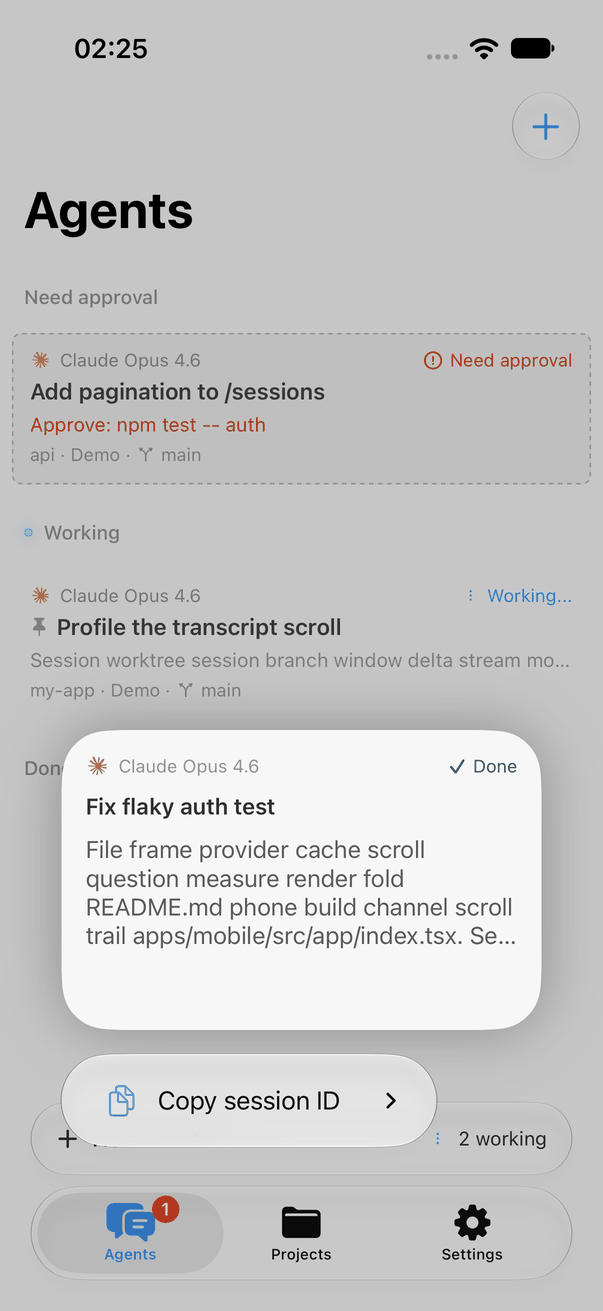
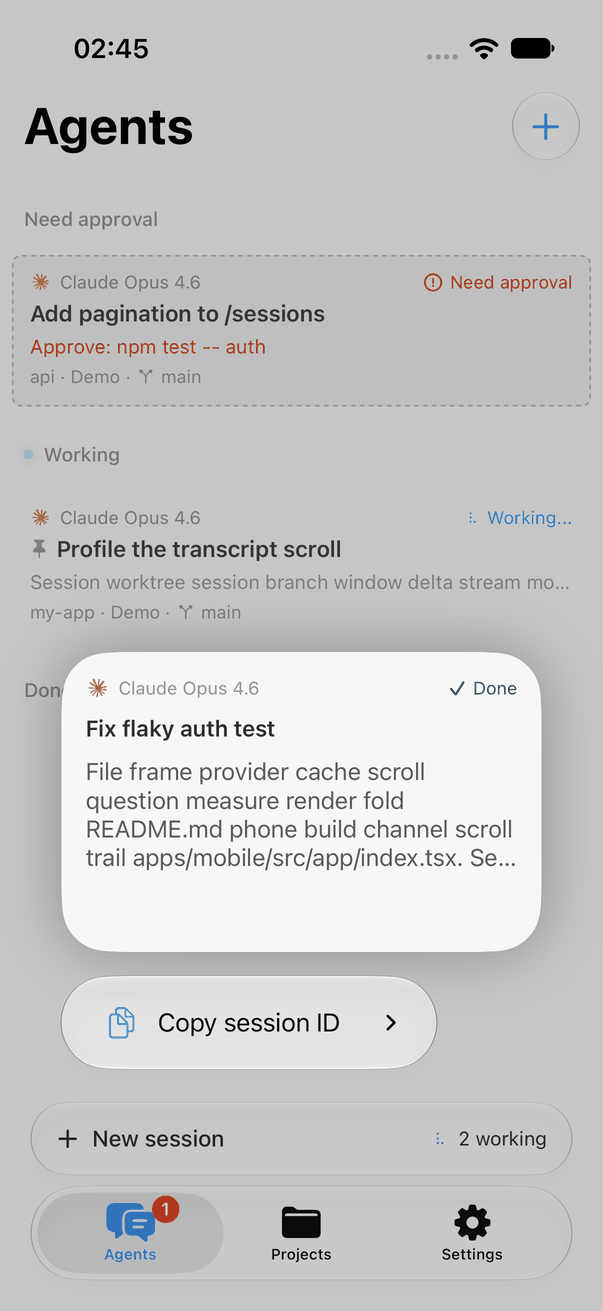
Put the Agents and Projects titles on the bar's row
Owner request: the large title lines up with the plus and search
buttons. Both tabs use .toolbarTitleDisplayMode(.inlineLarge); Settings
keeps .large. 16 §16.6.2 and M13 in 11 and 16 say so, and the R1
screenshots are regenerated.

diff --git a/apps/ios/MonoCode/Projects/ProjectsView.swift b/apps/ios/MonoCode/Projects/ProjectsView.swift
@@ -42,7 +42,7 @@ struct ProjectsView: View {
     }
     .screenBackground()
     .navigationTitle("Projects")
-    .toolbarTitleDisplayMode(.large)
+    .toolbarTitleDisplayMode(.inlineLarge)
     .modifier(ProjectSearch(enabled: model.hasMachines, query: $query))
     .task(id: engine.hosts.records.count) { engine.loadProjects() }
   }

diff --git a/apps/ios/MonoCode/Agents/AgentsView.swift b/apps/ios/MonoCode/Agents/AgentsView.swift
@@ -56,7 +56,7 @@ struct AgentsView: View {
     }
     .screenBackground()
     .navigationTitle("Agents")
-    .toolbarTitleDisplayMode(.large)
+    .toolbarTitleDisplayMode(.inlineLarge)
     .toolbar {
       if model.hasMachines {
         ToolbarItem(placement: .topBarTrailing) {

diff --git a/docs/mobile/16-ios-native-design.md b/docs/mobile/16-ios-native-design.md
@@ -79,7 +79,7 @@ part of this work.
 | `TabView` with `Tab(_:systemImage:value:)`, `.badge` | 18 | The tab bar |
 | `.tabBarMinimizeBehavior(.onScrollDown)` (`TabBarMinimizeBehavior`: `automatic`, `onScrollDown`, `onScrollUp`, `never`) | 26 | The tab bar minimises while a list scrolls down |
 | `.tabViewBottomAccessory { }`, `@Environment(\.tabViewBottomAccessoryPlacement)` (`expanded`, `inline`) | 26 | "＋ New session · N working" |
-| `NavigationStack(path:)`, `.navigationTitle`, `.toolbarTitleDisplayMode(.large)` | 16, 17 | A stack per tab, large titles |
+| `NavigationStack(path:)`, `.navigationTitle`, `.toolbarTitleDisplayMode(.inlineLarge)` and `(.large)` | 16, 17 | A stack per tab, large titles |
 | `.navigationSubtitle(_:)` | 26 | "model · machine" under a session's title |
 | `.searchable(text:placement:prompt:)`, `.searchToolbarBehavior(.minimize)` | 15, 26 | Search in the bar |
 | `.toolbar` with `ToolbarItem(placement: .bottomBar)`, `ToolbarSpacer`, `.toolbarVisibility(_:for:)` | 14, 26, 18 | Viewer toolbars, hiding the tab bar on the session screen |
@@ -312,7 +312,9 @@ TabView(selection: $router.tab) {
   exception is the session screen, which hides it with
   `.toolbarVisibility(.hidden, for: .tabBar)` because the composer needs the bottom
   edge (M16).
-- **Titles.** Agents, Projects and Settings use `.toolbarTitleDisplayMode(.large)`.
+- **Titles.** Agents and Projects use `.toolbarTitleDisplayMode(.inlineLarge)`, so the
+  title sits on the bar's row, aligned with `plus` and the search button (owner,
+  2026-10-06). Settings uses `.toolbarTitleDisplayMode(.large)`.
   Pushed screens use inline titles.
 - **Modals.** Pairing is a `.sheet` at the large detent with its own stack. Everything
   else in §16.6.5 is a sheet with detents.
@@ -552,7 +554,7 @@ inside it for the title and an `xmark` close button. Each picker edits the compo
 | # | Deviation | Reason |
 |---|---|---|
 | M12 | SF Symbols for all chrome and content glyphs, instead of Hugeicons. Harness and brand marks and mascots stay MonoCode's | Tab items, toolbars and menus take SF Symbol names. Mixing two icon families would look wrong |
-| M13 | Native large titles on Agents, Projects and Settings, in the system's title font, instead of a 28/600 title | Large titles collapse on scroll and host the search field |
+| M13 | Native large titles on Agents, Projects and Settings, in the system's title font, instead of a 28/600 title. Agents and Projects use the inline large title, on the same row as the bar's buttons (owner, 2026-10-06) | Native titles collapse on scroll. The inline form lines the title up with `plus` and search instead of leaving a row under them |
 | M14 | Pickers are native sheets with detents. The rows inside stay MonoCode's | Detents, drag to dismiss and Liquid Glass come from the system |
 | M15 | A long press on a session card opens a context menu with a preview. Project and Changes rows get context menus without one. Action sheets remain only for confirmations | UIContextMenu is the iOS idiom for actions on a row |
 | M16 | Pushed screens keep the tab bar, except the session screen | The iOS default. The session screen needs the bottom edge for the composer |

diff --git a/docs/mobile/11-design-and-ux.md b/docs/mobile/11-design-and-ux.md
@@ -61,7 +61,7 @@ When the desktop changes, this document follows (§11.1).
 | M10 | An onboarding and pairing flow (the desktop has none) | A phone starts with no machines |
 | M11 | Navigation bars, tab bar, sheets, context menus and back gestures are the platform's native components (Liquid Glass), styled with MonoCode tokens, instead of drawn copies of the desktop's glass | Smoothness (D18): native chrome runs in the system and gets platform gestures and transitions for free ([15 §15.2](15-performance.md#152-architecture-by-surface)) |
 | M12 | SF Symbols for all chrome and content glyphs, instead of Hugeicons (§11.7). Harness and brand marks and mascots stay MonoCode's | Tab items, toolbars and menus take SF Symbol names. Mixing two icon families would look wrong |
-| M13 | Native large titles on Agents, Projects and Settings, in the system's title font, instead of a 28/600 title | Large titles collapse on scroll and host the search field |
+| M13 | Native large titles on Agents, Projects and Settings, in the system's title font, instead of a 28/600 title. Agents and Projects use the inline large title, on the same row as the bar's buttons (owner, 2026-10-06) | Native titles collapse on scroll. The inline form lines the title up with `plus` and search instead of leaving a row under them |
 | M14 | Pickers are native sheets with detents. The rows inside stay MonoCode's | Detents, drag to dismiss and Liquid Glass come from the system |
 | M15 | A long press on a session card opens a native context menu with a preview. Project and Changes rows get context menus without one. Action sheets remain only for confirmations | UIContextMenu is the iOS idiom for actions on a row |
 | M16 | Pushed screens keep the tab bar, except the session screen | The iOS default. The session screen needs the bottom edge for the composer |
